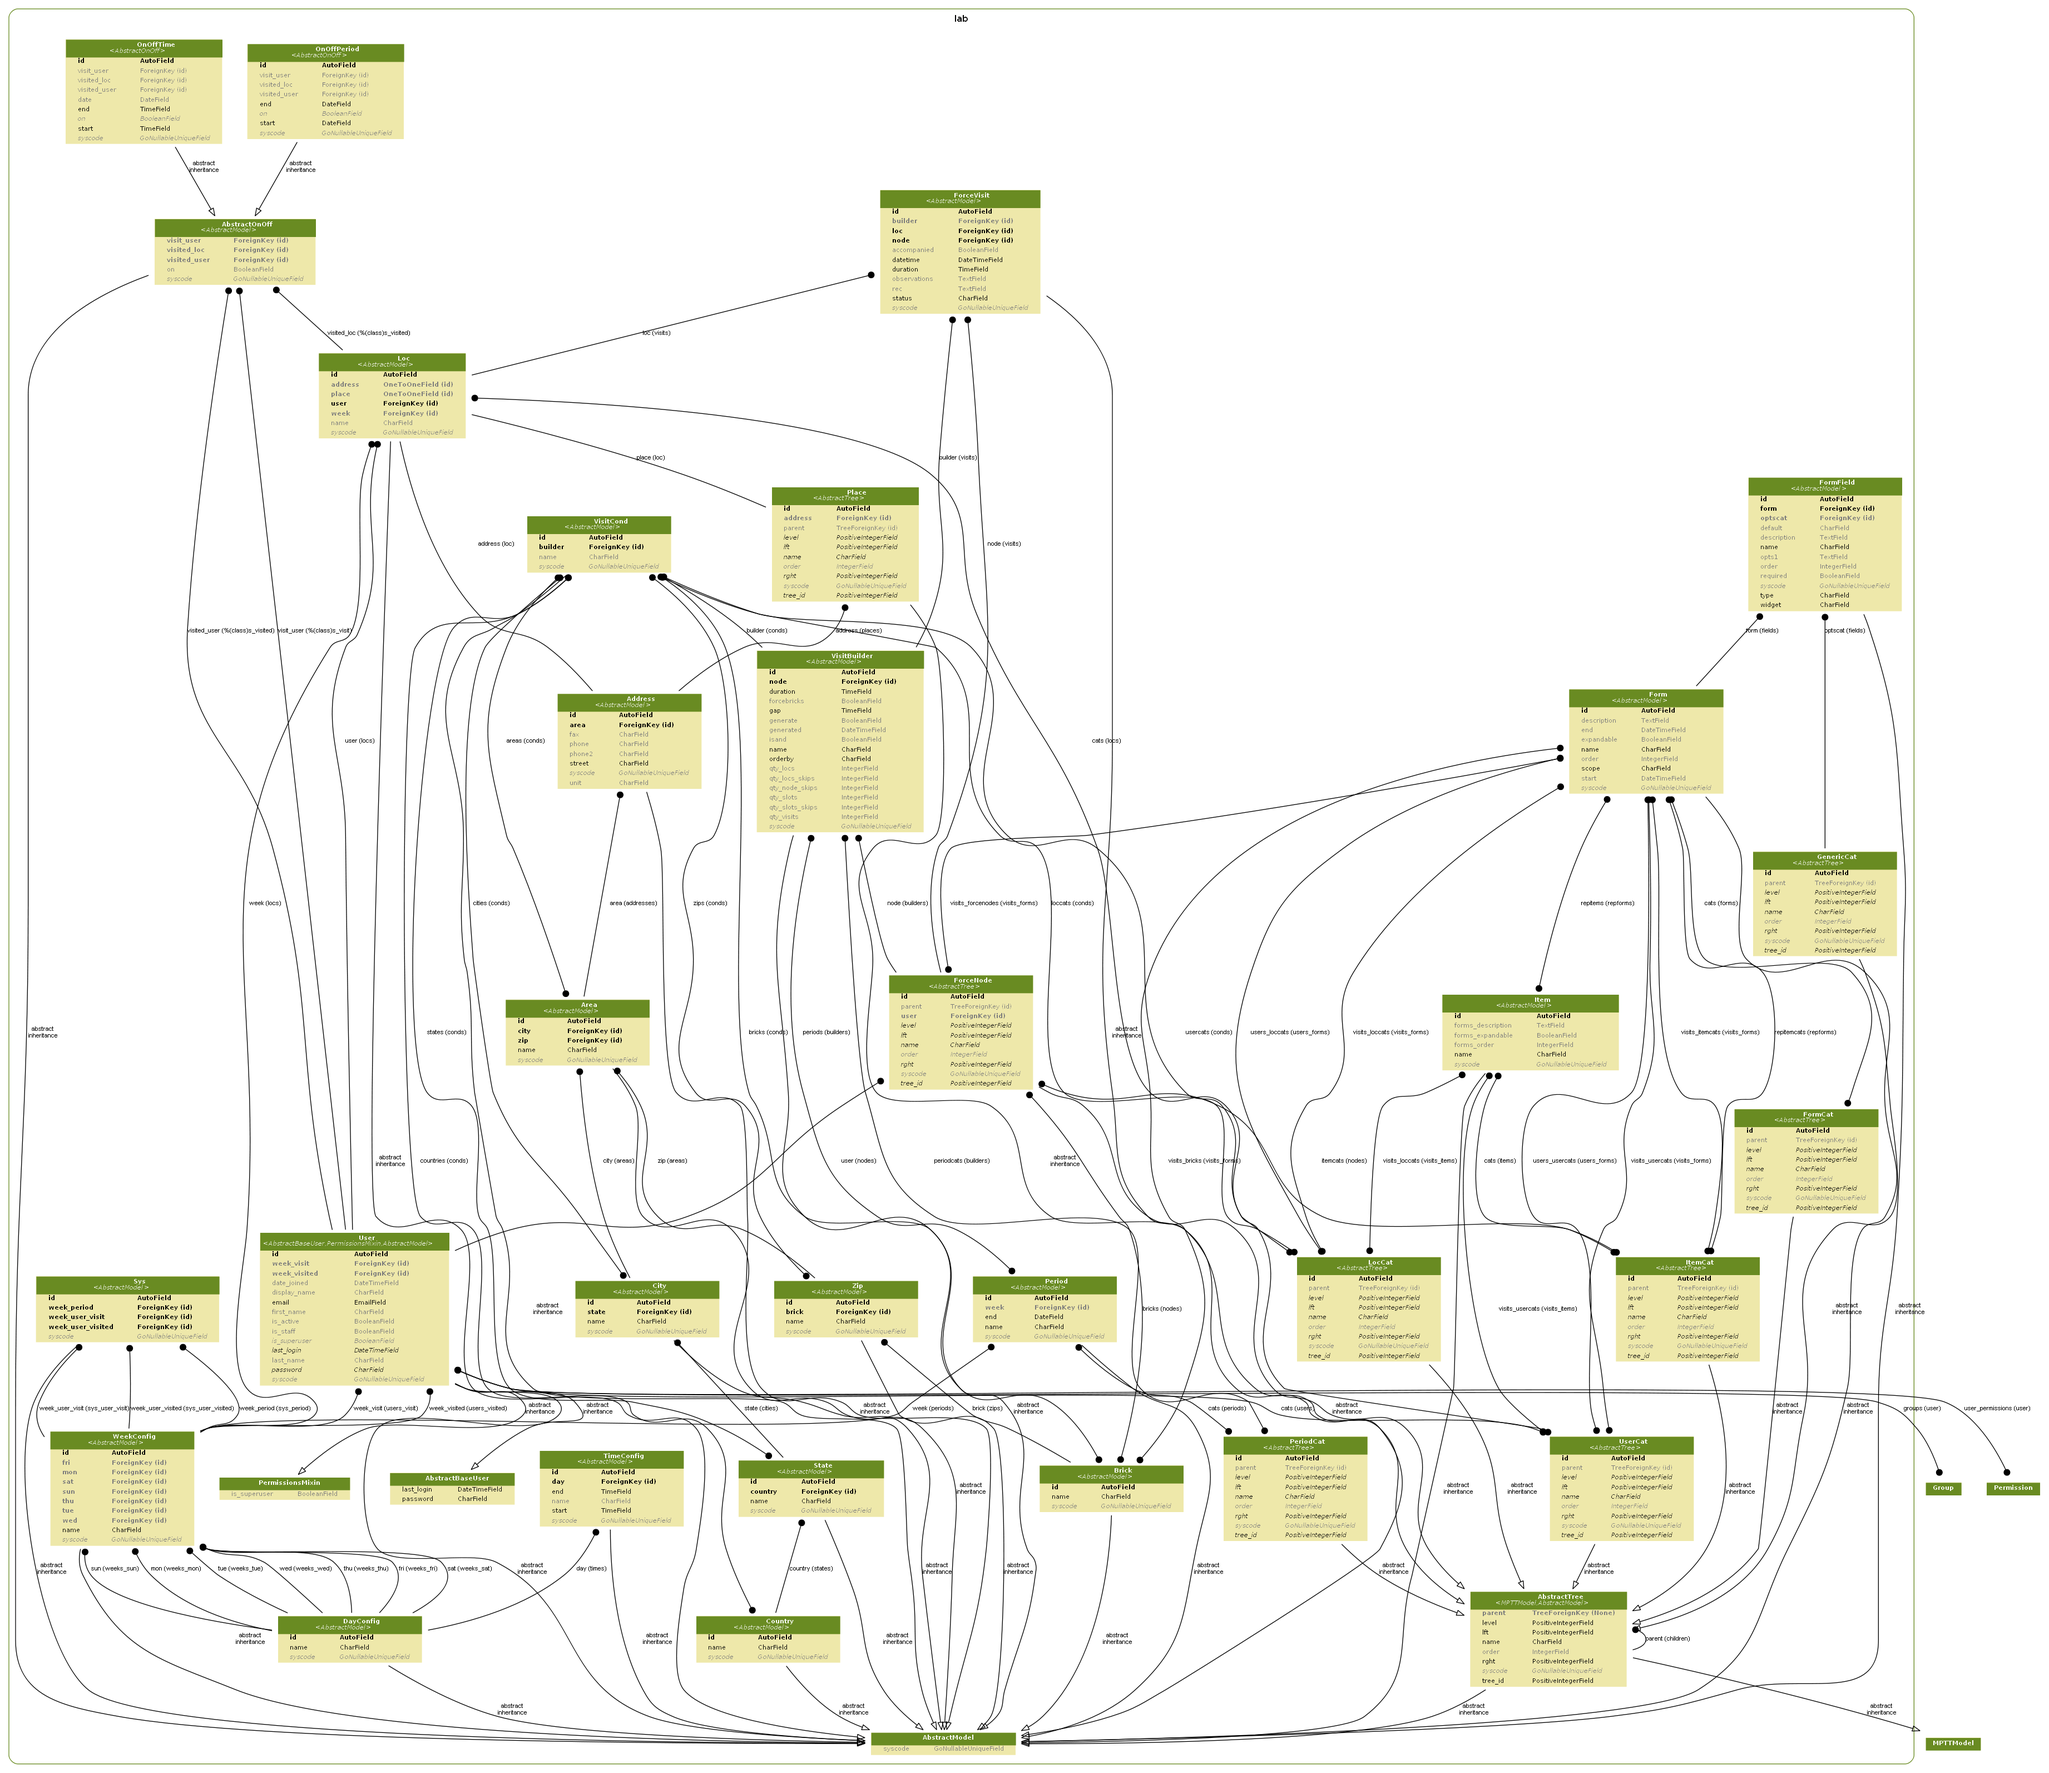
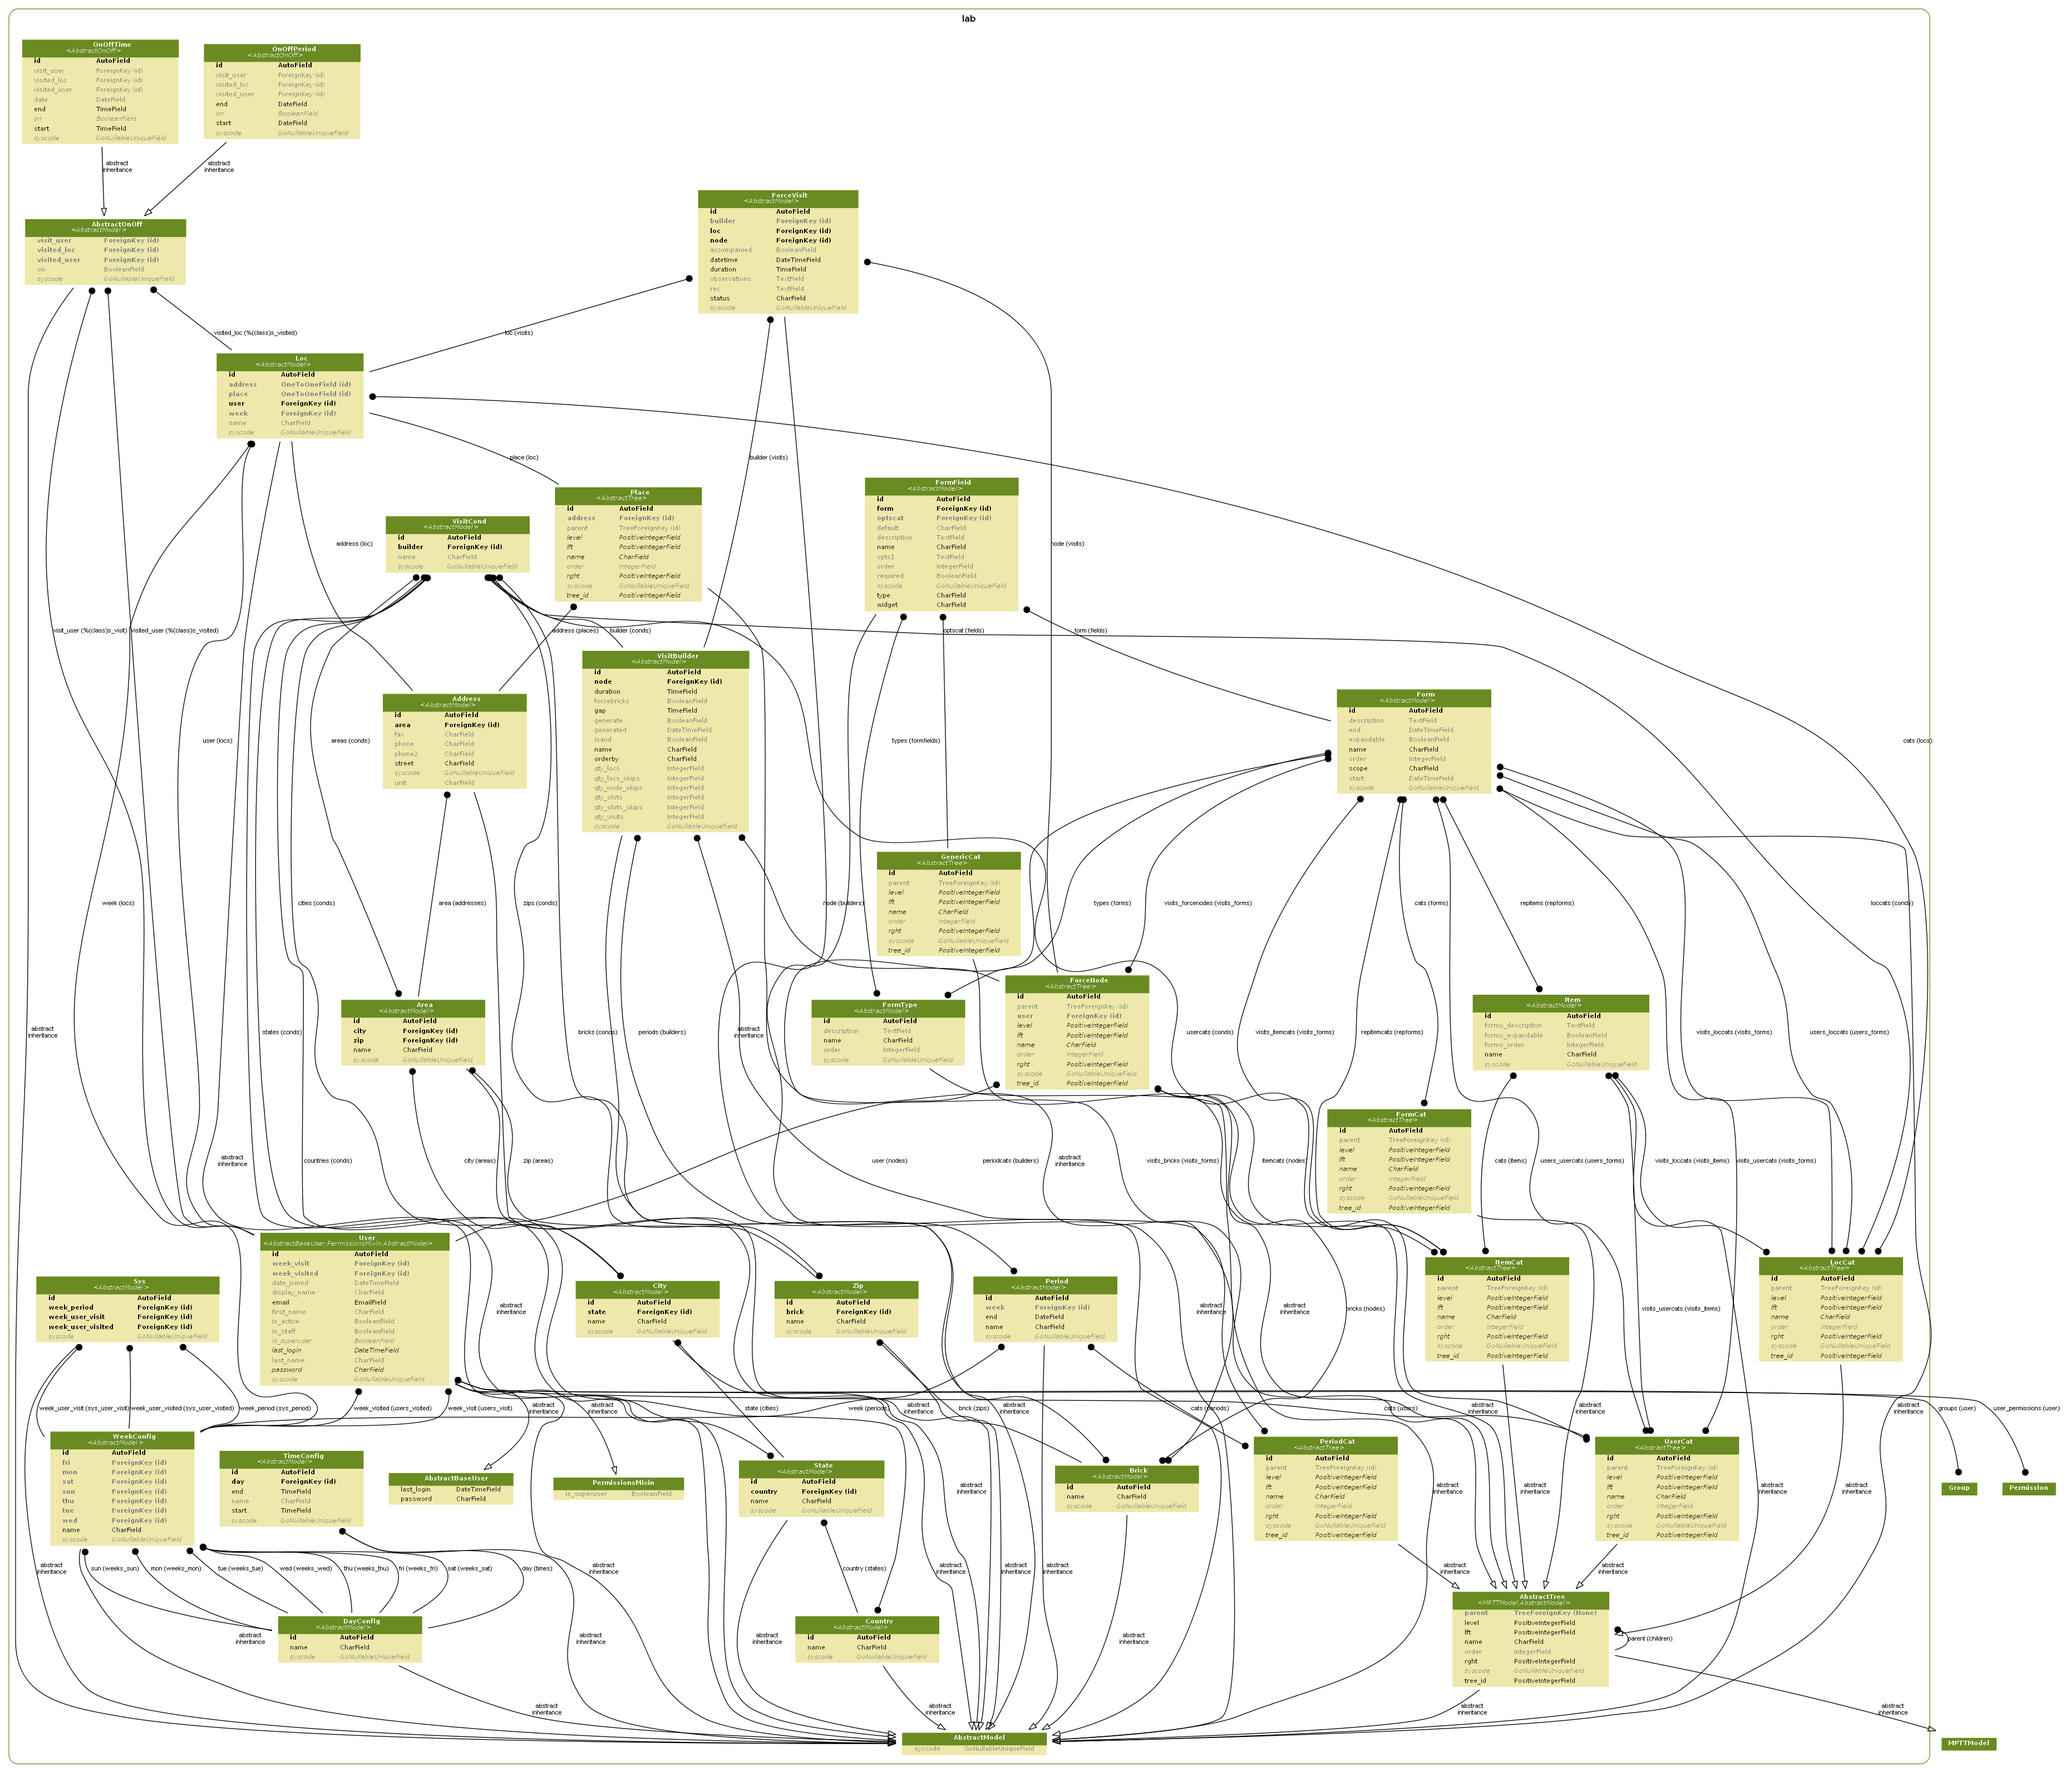
2015-May-23

diff --git a/mysite/static/lab.js b/mysite/static/lab.js
@@ -12,21 +12,28 @@ $(function(){
   var w_cal = $('#cal')
   var w_modal = $('#modal')
   var w_form = $('#modal-form')
-  // _log('w_*', w_dt2, w_dt, w_cal, w_modal, w_form)
+  var w_list = $('#modal-list')
+  // _log('w_*', w_dt2, w_dt, w_cal, w_modal, w_form, w_list)
 
   var w_user = $('#go_user')
   var w_visits = $('#go_visits')
   var w_forms = $('#go_forms')
   var w_nodes = $('#go_nodes')
 
-  function modal(z) {
-	_log('modal', z)
+  function modal(z, formtype) {
+	_log('modal', z, formtype)
 	if (!z) { z = {} }
 	var visit = z.visit
 	var userform = z.userform
 
+	w_form.empty()
+	w_list.empty()
+
 	function _ids(source) {
-	  var _v = _(_(source).sortBy('full')).pluck('id')
+	  var _v = _(source).chain()
+	    .sortBy('full')
+	    .pluck('id')
+	    .value()
 	  _log('_ids', _v)
 	  return _v
 	}
@@ -43,9 +50,16 @@ $(function(){
 	}
 	var vjson = {}
 	var refvars = {}
-	var rec, zforms, zreps
+	var rec, zforms, zreps, label
 
-	var err
+	function _forms(ids) {
+	  return _(ids).chain()
+	    .collect(function(each){ return data.allforms[each] })
+	    .compact() // compact to handle not found.
+	    .value()
+	}
+
+	var err, jschema, jitems
 	if (visit) {
 	  if (userform) { err = 'BOTH' }
 	  _(vjson).extend(visit)
@@ -54,19 +68,96 @@ $(function(){
 	  zforms = visit.forms
 	  zreps = visit.repforms
 	  label = 'Visit'
+	  jschema = {
+	    status: { type: 'string', enum: [ 's', 'v', 'n', 'r' ] },
+	    datetime: { type: 'string' },
+	    user_name: { type: 'string' },
+	    user_email: { type: 'string' },
+	    user_cats: { type: 'string' },
+	    loc_name: { type: 'string' },
+	    loc_address: { type: 'string' },
+	    accompanied: { type: 'boolean' },
+	  }
+	  jitems = [
+	    { key: 'status', prepend: 'Status', notitle: true, titleMap: { "s": 'Scheduled', "v": 'Visited', "n": 'Negative', "r": 'Re-scheduled' } },
+	    { key: 'datetime', prepend: 'Date/Time', notitle: true, disabled: true },
+	    { key: 'user_name', prepend: 'User', notitle: true, disabled: true },
+	    { key: 'user_email', prepend: 'Email', notitle: true, disabled: true },
+	    { key: 'user_cats', prepend: 'Categories', notitle: true, disabled: true },
+	    { key: 'loc_name', prepend: 'Location', notitle: true, disabled: true },
+	    { key: 'loc_address', prepend: 'Address', notitle: true, disabled: true },
+	    { key: 'accompanied', prepend: 'Accompanied', inlinetitle: 'Accompanied', htmlClass: 'lab-field-boolean' },
+	  ]
 	}
 	else if (userform) {
 	  rec = {}
-	  zforms = [] // [userform]
 	  var formid = userform.id
-	  zreps = _(_(data.user.repforms[formid]).collect(function(e){
-		return [ e, [formid] ]
-	  })).object()
+	  zreps = data.user.repforms[formid]
+	  zforms = zreps && zreps.length ? [] : [formid]
+	  zreps = _(zreps).chain()
+	    .collect(function(e){ return [ e, [formid] ] })
+	    .object()
+	    .value()
 	  label = 'Form'
+	  jschema = {}
+	  jitems = []
 	}
 	else { err = 'NO' }
 	if (err) { return alert(_('Error @ modal : %s visit / userform').sprintf(err)) }
 	// _log('modal', z, vjson)
+	_log('zforms & zreps', zforms, zreps)
+
+	if (!formtype) {
+	  var nforms = _forms(zforms) // do NOT use forms from zreps.
+	  var formtypes = _sorted(_(nforms).chain()
+	    .collect(function(eform){ return eform.types })
+	    .flatten()
+	    .uniq()
+	    .collect(function(eid){ return data.allformtypes[eid] })
+	    .compact() // compact to handle not found.
+	    .value())
+	  // _log('formtypes', nforms, formtypes.length, formtypes)
+
+	  if (formtypes.length > 1) {
+	    var wlist = $('<div class="list-group">')
+	    _(formtypes).each(function(eformtype){
+	      // _log('eformtype', eformtype.name, eformtype.description)
+	      var w1 = $('<a href="#" class="list-group-item">')
+	      w1.click(function(ev){
+		// _log('click @ eformtype', eformtype)
+		ev.preventDefault()
+		setTimeout(function(){
+		  // _log('setTimeout @ eformtype', eformtype)
+		  modal(z, eformtype)
+		}, 100)
+		return false
+	      })
+	      var wname = $('<h4 class="list-group-item-heading">')
+	      wname.append(eformtype.name)
+	      var wdesc = $('<p class="list-group-item-text">')
+	      wdesc.append(eformtype.description)
+	      w1.append(wname, wdesc)
+	      wlist.append(w1)
+	    })
+	    w_list.append(wlist)
+	    w_modal.modal('show')
+	    return
+	  }
+	}
+
+	w_form.toggleClass('form-user', Boolean(userform))
+
+	var _filter_formtype = function(v1) {
+	  var v2 = v1
+	  if (formtype) {
+	    v2 = _(v1).select(function(e){
+	      // those with empty types will apply !
+	      return !e.types || !e.types.length || _(e.types).contains(formtype.id)
+	    })
+	  }
+	  // _log('_filter_formtype', v1, formtype, v2)
+	  return v2
+	}
 
 	var schema2 = {}
 	function _do_fields(fields, pre_id) {
@@ -133,14 +224,14 @@ $(function(){
 	var fieldsets = []
 	function _do_fieldset(forms_ids, item) {
 	  // _log('_do_fieldset', forms_ids, item)
-	  var forms = _(_(forms_ids).collect(function(each){
-		return data.allforms[each]
-	  })).compact() // compact to handle not found.
-	  var fields = _(_(forms).collect(function(form){
-		return _(form.fields).values()
-	  })).flatten()
+	  var forms = _filter_formtype(_forms(forms_ids))
+	  var fields = _(forms).chain()
+	    .collect(function(eform){ return _(eform.fields).values() })
+	    .flatten()
+	    .value()
 	  // _log('_do_fieldset > fields', forms, fields)
 	  if (!fields.length) { return }
+	  fields = _filter_formtype(fields)
 	  var source = item || forms[0]
 	  var f_fields = _do_fields(fields, item ? item.id + '_' : '')
 	  var desc = source.description
@@ -157,9 +248,11 @@ $(function(){
 	  _do_fieldset([form_id])
 	})
 
-	var repitems = _(_sorted(_(_(zreps).keys()).collect(function(item_id){
-	  return data.allitems[item_id]
-	}))).compact() // compact to handle not found.
+	var repitems = _sorted(_(zreps).chain()
+	  .keys()
+	  .collect(function(item_id){ return data.allitems[item_id] })
+	  .compact() // compact to handle not found.
+	  .value())
 	// _log('repitems', repitems)
 	_(repitems).each(function(item){
 	  _do_fieldset(zreps[item.id], item)
@@ -167,37 +260,20 @@ $(function(){
 
 	// _log('modal > vjson', vjson)
 	// _log('modal > schema2 / fieldsets', schema2, fieldsets)
-	w_form.empty().jsonForm({
-	  schema: {
-		datetime: { type: 'string' },
-		user_name: { type: 'string' },
-		user_email: { type: 'string' },
-		user_cats: { type: 'string' },
-		loc_name: { type: 'string' },
-		loc_address: { type: 'string' },
-		status: { type: 'string', enum: [ 's', 'v', 'n', 'r' ] },
-		accompanied: { type: 'boolean' },
+	w_form.jsonForm({
+	  schema: _(jschema).extend({
 		observations: { type: 'string' },
 		rec: {
 		  type: 'object',
 		  title: 'Forms',
 		  properties: schema2,
 		},
-	  },
+	  }),
 	  form: [
 		{
 		  type: 'section', // fieldset
 		  title: label,
-		  items: [
-			{ key: 'status', prepend: 'Status', notitle: true, titleMap: { "s": 'Scheduled', "v": 'Visited', "n": 'Negative', "r": 'Re-scheduled' } },
-			{ key: 'datetime', prepend: 'Date/Time', notitle: true, disabled: true },
-			{ key: 'user_name', prepend: 'User', notitle: true, disabled: true },
-			{ key: 'user_email', prepend: 'Email', notitle: true, disabled: true },
-			{ key: 'user_cats', prepend: 'Categories', notitle: true, disabled: true },
-			{ key: 'loc_name', prepend: 'Location', notitle: true, disabled: true },
-			{ key: 'loc_address', prepend: 'Address', notitle: true, disabled: true },
-			{ key: 'accompanied', prepend: 'Accompanied', inlinetitle: 'Accompanied', htmlClass: 'lab-field-boolean' },
-		  ],
+		  items: jitems,
 		},
 	  ].concat(fieldsets).concat([
 		{

diff --git a/mysite/lab/templates/lab/agenda.html b/mysite/lab/templates/lab/agenda.html
@@ -73,6 +73,7 @@
           </h4>
         </div>
         <div class="modal-body">
+          <div id="modal-list"></div>
           <form id="modal-form"></form>
         </div>
         <div class="modal-footer">

diff --git a/mysite/static/lab.css b/mysite/static/lab.css
@@ -28,3 +28,5 @@ fieldset:first-of-type { margin-top: 30px !important; }
 #go_user { font-weight: bold; }
 
 fieldset.expandable { cursor: pointer; }
+
+.form-user { margin-top: -25px; }

diff --git a/mysite/lab/views.py b/mysite/lab/views.py
@@ -99,6 +99,7 @@ def _data(config=None):
         else:
             visits = utils.list_flatten(go_nodes, lambda node: node.visits.all())
             allitems = _all(Item)
+            allformtypes = _all(FormType)
             allforms = Form.objects.order_by('order', 'name').all()
             user_dict = None
             if go_user:
@@ -108,6 +109,10 @@ def _data(config=None):
                     forms = forms_ids,
                     repforms = repforms_ids,
                 )
+            def _types(row):
+                types = row.types.all()
+                # return _dict(types, lambda field: dict())
+                return utils.db_ids(types)
             data = dict(
                 user = user_dict,
                 nodes = _dict(go_nodes, lambda node: dict(
@@ -119,6 +124,11 @@ def _data(config=None):
                     description = item.forms_description,
                     expandable = item.forms_expandable,
                     order = item.forms_order,
+                )),
+                allformtypes = _dict(allformtypes, lambda ftype: dict(
+                    name = ftype.name,
+                    description = ftype.description,
+                    order = ftype.order,
                 )),
                 allforms = _dict(allforms, lambda form: dict(
                     name = form.name,
@@ -134,7 +144,9 @@ def _data(config=None):
                         required = field.required,
                         order = field.order,
                         opts = field.opts(),
+                        types = _types(field),
                     )),
+                    types = _types(form),
                 )),
             )
     # print '_data', config, data
@@ -203,8 +215,9 @@ def ajax(request):
                 observations = _get('observations'),
                 rec = json.dumps(rec),
             )
+            # print 'visit', visit
             # print 'dbvars', dbvars
-            utils.db_update(visit, dbvars)
+            utils.db_update(visit, **dbvars)
     except IntegrityError as e:
         errors.append('Not unique, invalid.')
         # raise(e)

diff --git a/mysite/lab/utils.py b/mysite/lab/utils.py
@@ -38,10 +38,12 @@ def db_get(model, dbid=None, **kwargs):
     return v
 
 def db_update(model, save_kwargs=None, **kwargs):
-    # print 'utils.db_update', model, kwargs
+    # print 'utils.db_update', model, save_kwargs, kwargs
     for dbk, dbv in kwargs.items():
         setattr(model, dbk, dbv)
-    model.save(**save_kwargs or dict())
+    kw = save_kwargs or dict()
+    # print 'utils.db_update', kw
+    model.save(**kw)
 
 def db_names(rel):
     return ', '.join([ each.name for each in rel.all() ])

diff --git a/mysite/lab/api.py b/mysite/lab/api.py
@@ -730,7 +730,7 @@ class FormTypeSerializer(AbstractSerializer):
     class Meta:
         model = model
         fields = _fields_name + (
-            'description',
+            'order', 'description',
             'forms', 'forms_ids',
             'formfields', 'formfields_ids',
         )
@@ -747,7 +747,7 @@ class FormTypeViewSet(AbstractView):
     search_fields = search
     filter_class = FormTypeFilter
 
-_api('FormTypes', FormTypeViewSet)
+_api('formtypes', FormTypeViewSet)
 
 
 

diff --git a/mysite/lab/admin.py b/mysite/lab/admin.py
@@ -383,7 +383,7 @@ _admin(Loc, LocAdmin)
 
 
 class FormTypeAdmin(AbstractAdmin):
-    list_display = _fields_name + ('description', 'forms_', 'formfields_')
+    list_display = _fields_name + ('order', 'description', 'forms_', 'formfields_')
     search_fields = _search_name + ('description',)
 
 _admin(FormType, FormTypeAdmin)

diff --git a/mysite/lab/models.py b/mysite/lab/models.py
@@ -580,6 +580,7 @@ class ForceVisit(AbstractModel):
 
 class FormType(AbstractModel):
     name = _name_unique()
+    order = _form_order()
     description = _form_description()
 
     class Meta:
